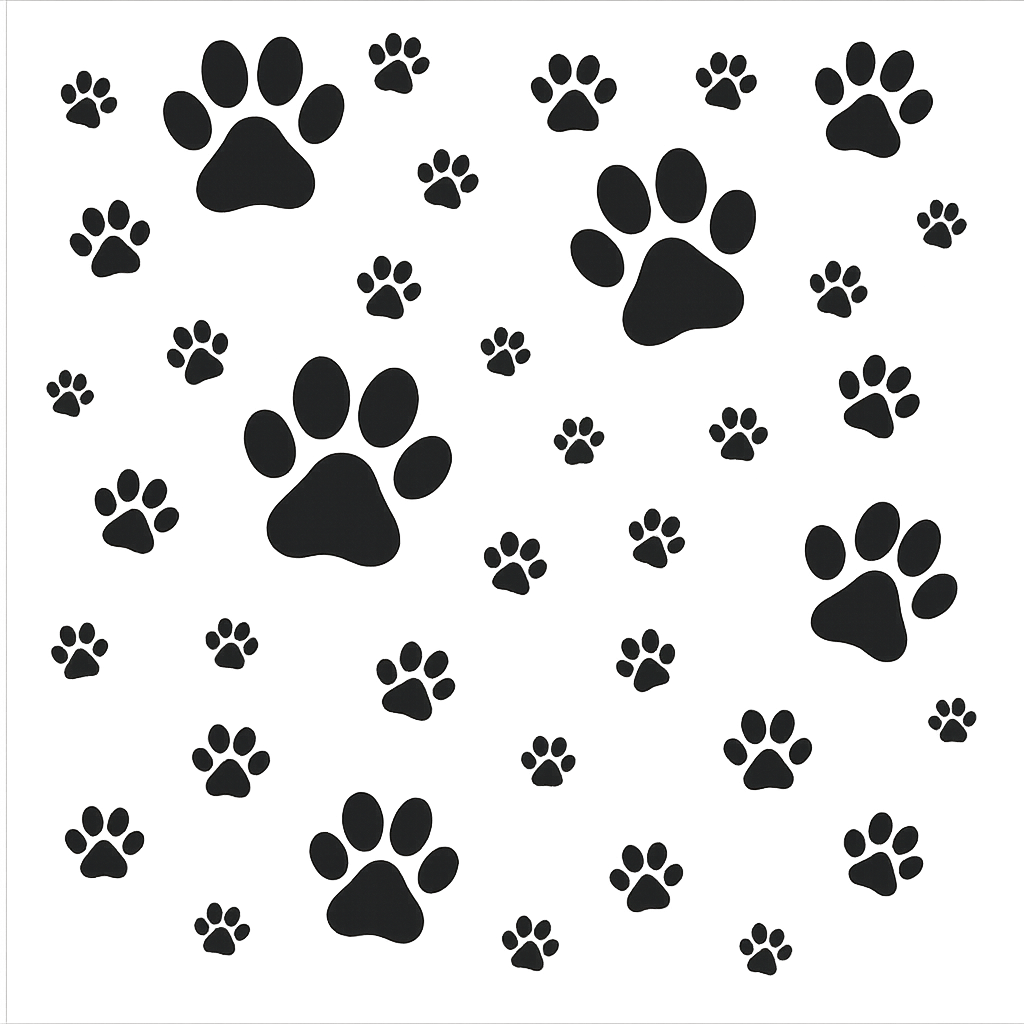
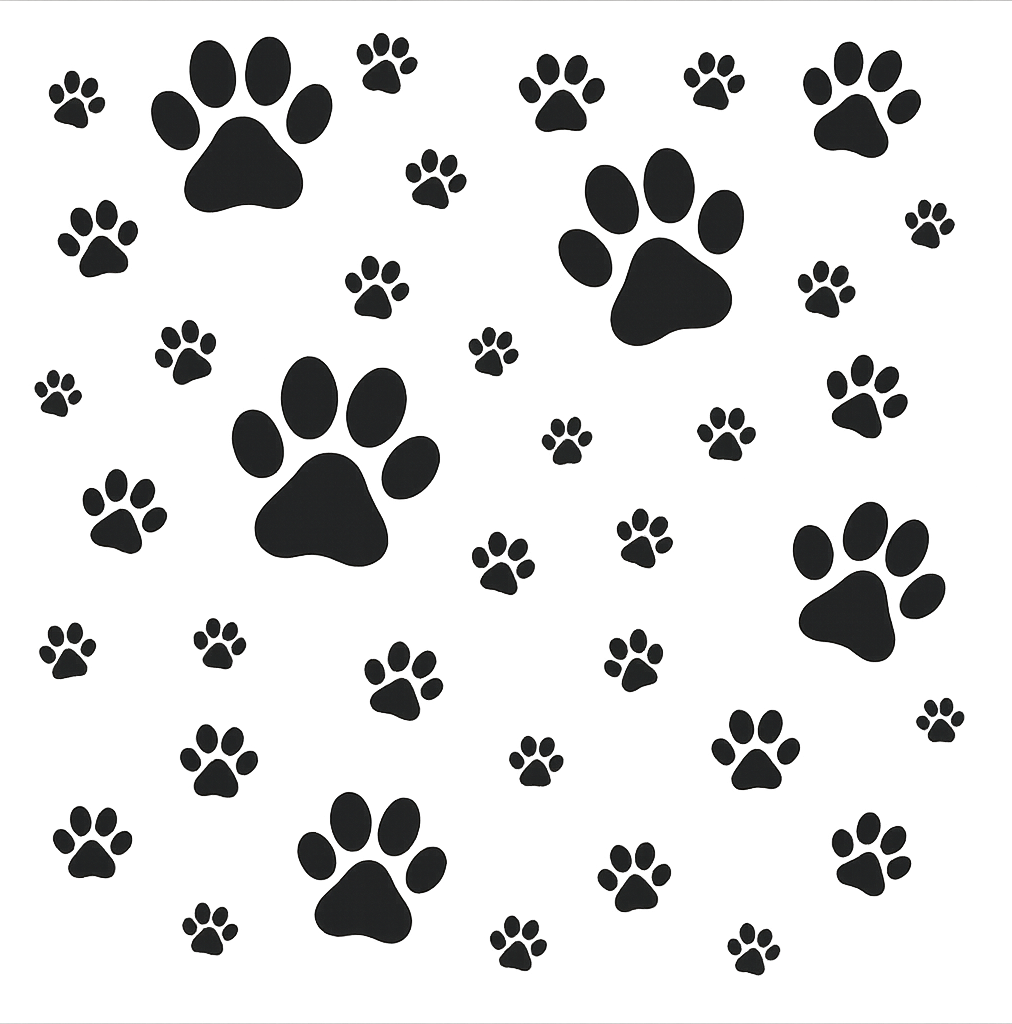
background-register-fix

diff --git a/frontend/src/pages/Register/Register.css b/frontend/src/pages/Register/Register.css
@@ -7,16 +7,23 @@
 }
 
 .imagen {
-  background-image: url("../../img/fondo-patitas.png");
-  background-size: cover;
-  background-position: center;
-  background-repeat: no-repeat;
-  height: 100vh;
-  width: 25%;
+  position: relative; 
+}
+
+.imagen::before {
+  content: "";
   position: absolute;
   top: 0;
-  left: 0;
+  width: 100%;
+  left: -30vh;
+  height: 100%;
+  background-image: url("../../img/fondo-patitas.png");
+  background-position: left center;
+  background-repeat: no-repeat;
+  background-size: auto 100%; 
+  z-index: -1; 
 }
+
 .cont-header-form {
   display: flex;
   justify-content: space-between;

diff --git a/frontend/src/pages/Register/Register.jsx b/frontend/src/pages/Register/Register.jsx
@@ -74,7 +74,7 @@ const Register = () => {
 
   // Renderizado del componente
   return (
-    <div className="container d-flex justify-content-center align-items-center min-vh-100">
+    <div className="container d-flex justify-content-center align-items-center min-vh-100 imagen">
       <div className="card p-4 form" style={{ width: "500px", borderRadius: "10px" }}>
         <div className="cont-header-form">
           <h2 className="mb-4 titulo font-semibold">Regístrate</h2>
